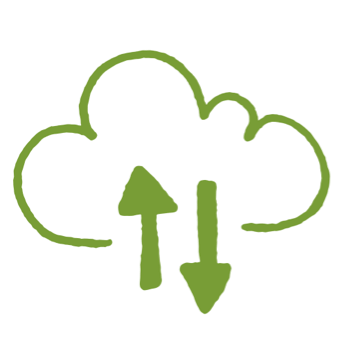
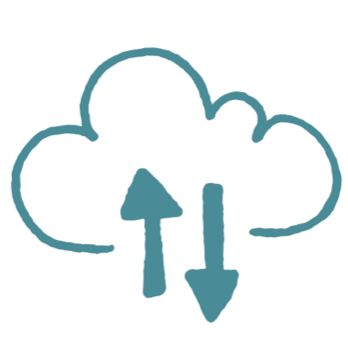
Small changes

Changed region(s): [[0.0287, 0.1222, 1.0, 0.7028], [0.3161, 0.4583, 0.6897, 0.9167]]

diff --git a/src/theme.ts b/src/theme.ts
@@ -31,10 +31,10 @@ const grey = (step: number): string => {
 export const colors = {
   black: "black",
   white: "#ffffff",
-  green: "#5BA196",
+  green: "#488B96",
   darkGreen: "#225C53",
   grey,
-  categories: ["#225C53", grey(2), "#5BA196", grey(0)],
+  categories: ["#225C53", grey(2), "#488B96", grey(0)],
 };
 
 export const theme = {
